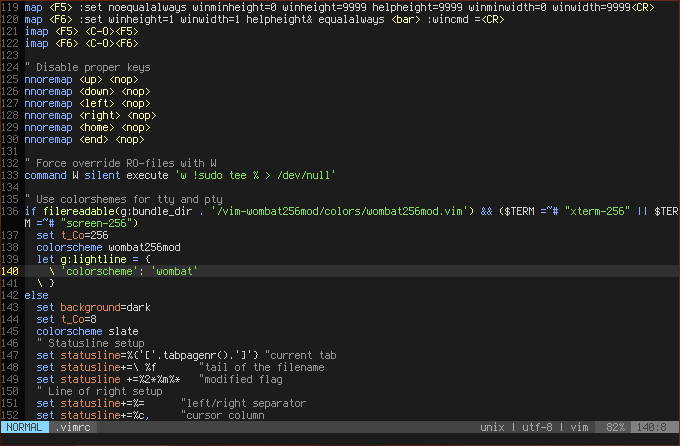
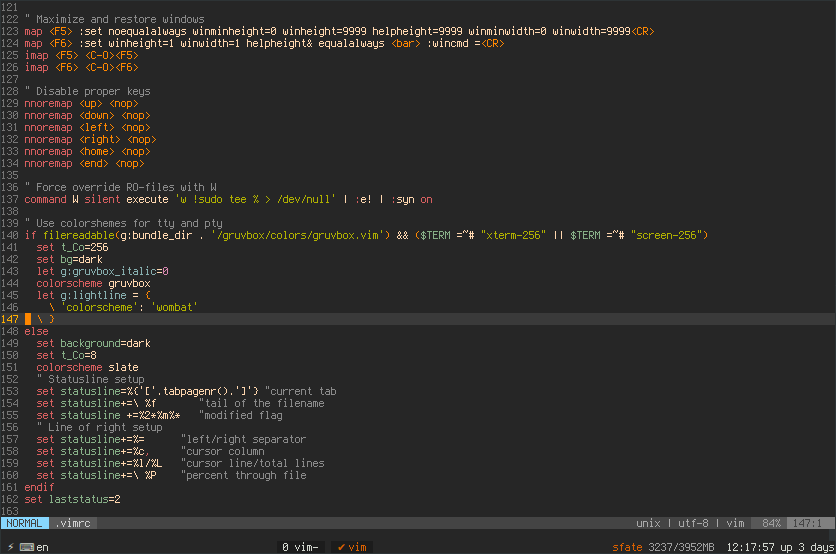
Upd readme

diff --git a/readme.md b/readme.md
@@ -24,8 +24,9 @@ Who's inside?
 * [grep](https://github.com/Sfate/grep.vim)
 * [ctrlp](https://github.com/kien/ctrlp.vim)
 * [lightline](https://github.com/itchyny/lightline.vim)
+* [YouCompleteMe](https://github.com/Valloric/YouCompleteMe)
 
-###Colorscheme - [wombat256](https://github.com/vim-scripts/wombat256.vim)
+###Colorscheme - [gruvbox](https://github.com/morhetz/gruvbox)
 
 ![Colorscheme preview](/preview.png)
 
@@ -44,6 +45,6 @@ Who's inside?
 * and so on.. for more info take a look at [vimrc](https://github.com/Sfate/Vim-environment/blob/master/vimrc) file ;)
 
 -------------------------
-Version 1.9.4 (11 october 2013)
+Version 1.9.5 (06 march 2014)
 -------------------------
 
